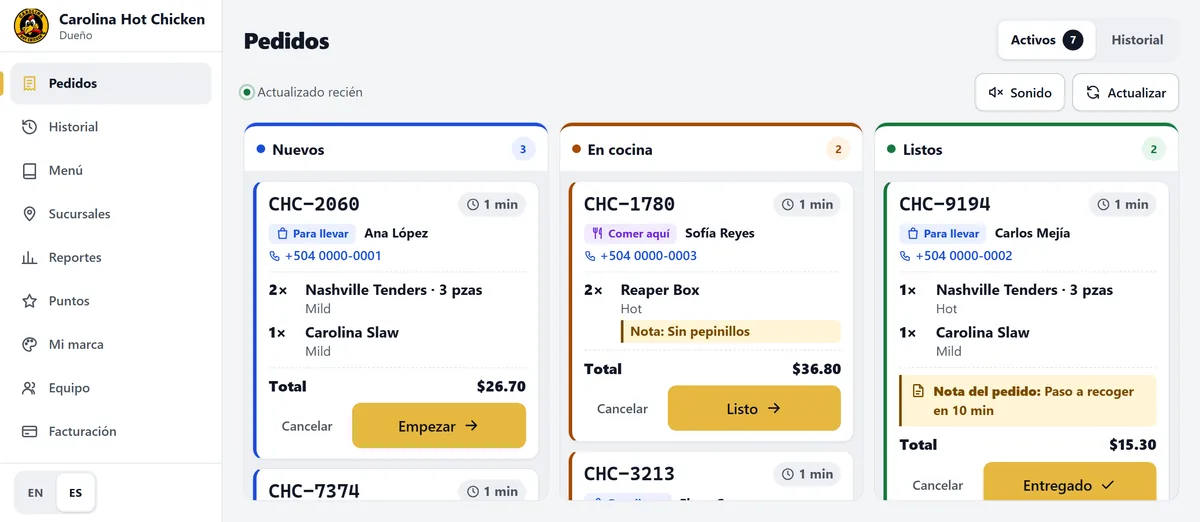
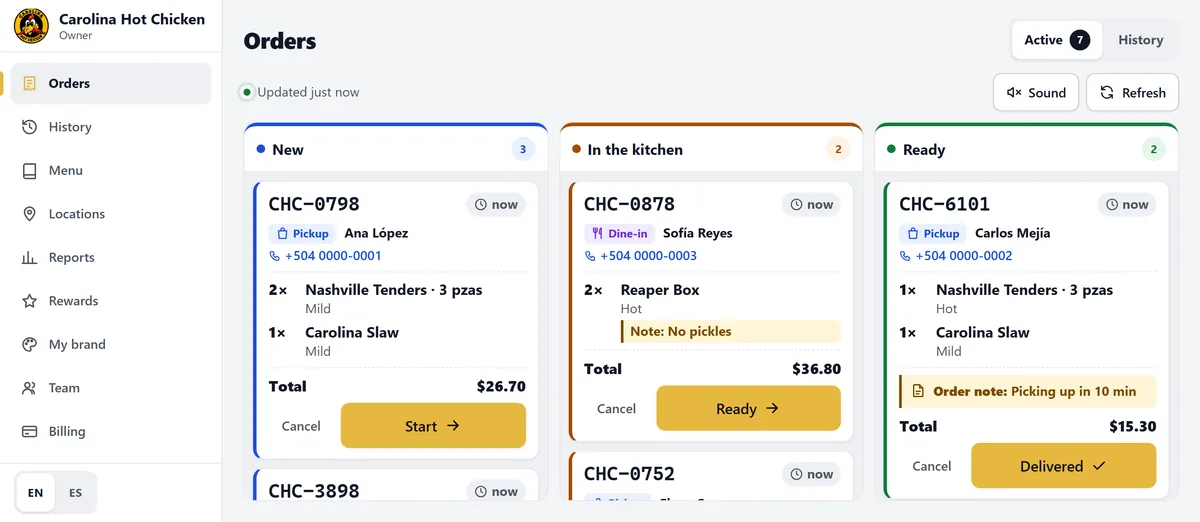
fix(site): restaurant screenshots in English (TASK-026)
The dashboard screenshot now shows the English UI with English order notes,
matching the customer app screenshot. Language note and alt text updated.

diff --git a/apps/site/src/i18n/es.ts b/apps/site/src/i18n/es.ts
@@ -297,12 +297,12 @@ export const es: Dict = {
         },
       ],
       languageNote:
-        'El panel del restaurante está en español e inglés; la captura lo muestra en español. La app de clientes sigue el idioma del teléfono (español o inglés); la captura la muestra en inglés.',
+        'El panel del restaurante está en español e inglés, y la app de clientes sigue el idioma del teléfono (español o inglés); las capturas los muestran en inglés.',
       cta: 'Visitar Ventea para restaurantes',
       kitchen: {
-        alt: 'Panel de Ventea de un restaurante: menú lateral con Pedidos, Historial, Menú, Sucursales, Reportes, Puntos, Mi marca, Equipo y Facturación, y el tablero con las columnas Nuevos, En cocina y Listos; cada pedido muestra su número, si es para llevar o para comer aquí, el cliente, los productos con notas y el total.',
+        alt: 'Panel de Ventea de un restaurante: menú lateral con Orders, History, Menu, Locations, Reports, Rewards, My brand, Team y Billing, y el tablero con las columnas New, In the kitchen y Ready; cada pedido muestra su número, si es para llevar o para comer aquí, el cliente, los productos con notas y el total.',
         caption:
-          'Panel del restaurante: los pedidos pasan de «Nuevos» a «En cocina» y «Listos» (pedidos y clientes de ejemplo).',
+          'Panel del restaurante, en inglés: los pedidos pasan de «New» a «In the kitchen» y «Ready» (pedidos y clientes de ejemplo).',
       },
       menu: {
         alt: 'Menú en la app de un restaurante, con sus colores: buscador, categorías, un combo con descuento y productos con foto, precio y botón para agregar.',

diff --git a/apps/site/src/i18n/i18n.test.ts b/apps/site/src/i18n/i18n.test.ts
@@ -41,16 +41,15 @@ describe('diccionarios es/en', () => {
     expect(empty(es).map(([key]) => key)).toEqual(['.products.marketing.languageNote']);
   });
 
-  it('nota de idioma de restaurantes exacta: panel bilingüe en español en la captura, app en inglés', () => {
+  it('nota de idioma de restaurantes exacta: panel y app bilingües, capturas en inglés', () => {
     expect(en.products.restaurants.languageNote).toMatch(
       /dashboard is available in English and Spanish/,
     );
-    expect(en.products.restaurants.languageNote).toMatch(/screenshot shows it in Spanish/);
-    expect(en.products.restaurants.languageNote).toMatch(/screenshot shows it in English/);
+    expect(en.products.restaurants.languageNote).toMatch(/screenshots show both in English/);
     expect(es.products.restaurants.languageNote).toMatch(
       /panel del restaurante está en español e inglés/,
     );
-    expect(es.products.restaurants.languageNote).toMatch(/la captura la muestra en inglés/);
+    expect(es.products.restaurants.languageNote).toMatch(/las capturas los muestran en inglés/);
   });
 
   it('sin garantías absolutas ni compromisos contractuales no confirmados', () => {

diff --git a/apps/site/src/i18n/en.ts b/apps/site/src/i18n/en.ts
@@ -289,7 +289,7 @@ export const en: Dict = {
         { title: 'Operations', text: 'Containers, scripted deployments and database backups' },
       ],
       languageNote:
-        'The restaurant dashboard is available in English and Spanish; the screenshot shows it in Spanish. The customer app follows the phone’s language (English or Spanish); the screenshot shows it in English.',
+        'The restaurant dashboard is available in English and Spanish, and the customer app follows the phone’s language (English or Spanish); the screenshots show both in English.',
       cta: 'Visit Ventea for restaurants',
       kitchen: {
         alt: 'A restaurant’s Ventea dashboard: a sidebar with Orders, History, Menu, Locations, Reports, Rewards, My brand, Team and Billing, and the order board with New, In the kitchen and Ready columns; each order shows its number, pickup or dine-in, the customer, items with notes and the total.',
